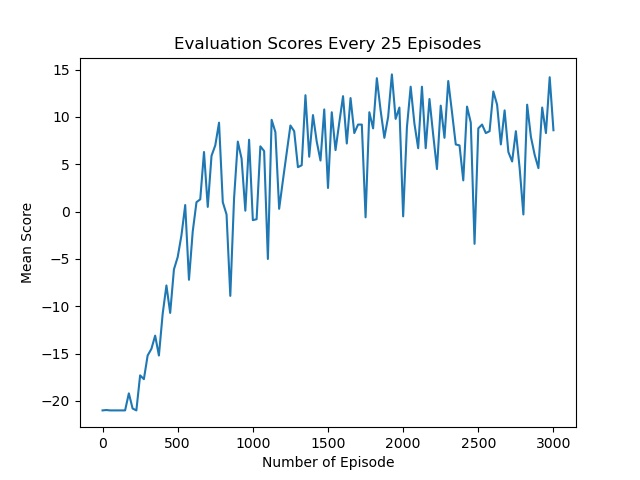
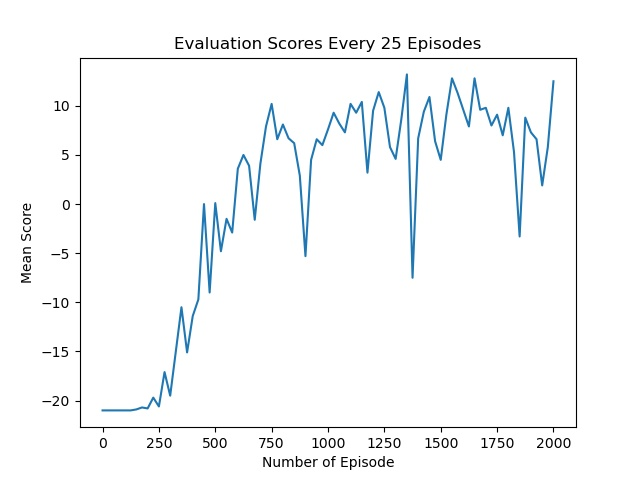
CartPole support

diff --git a/train.py b/train.py
@@ -29,16 +29,14 @@ if __name__ == '__main__':
 
     # Initialize environment and config.
     env = gym.make(args.env)
-    env = gym.wrappers.AtariPreprocessing(env, screen_size=84, grayscale_obs=True, frame_skip=1, noop_max=30)
     env_config = ENV_CONFIGS[args.env]
+    if args.env == 'Pong-v0':
+        env = gym.wrappers.AtariPreprocessing(env, screen_size=84, grayscale_obs=True, frame_skip=1, noop_max=30)
+        obs_stack_size = env_config['observation_stack_size']
 
     # Initialize deep Q-networks.
     dqn = DQN(env_config=env_config).to(device)
-    # TODO: Create and initialize target Q-network.
     target_dqn = DQN(env_config=env_config).to(device)
-
-    # Create replay memory.
-    memory = ReplayMemory(env_config['memory_size'])
 
     # Initialize optimizer used for training the DQN. We use Adam rather than RMSProp.
     optimizer = torch.optim.Adam(dqn.parameters(), lr=env_config['lr'])
@@ -52,7 +50,6 @@ if __name__ == '__main__':
         start_episode = checkpoint['episode']
         scores = checkpoint['scores']
         reward_epi = checkpoint['reward_epi']
-        #loss_epi = checkpoint['loss_epi']
         memory = checkpoint['memory']
         best_mean_return = checkpoint['best_mean_return']
         dqn.epsilon = checkpoint['epsilon']
@@ -60,59 +57,62 @@ if __name__ == '__main__':
     except:
         # Initialize a new model
         start_episode = 0
-        # Initianize scores/rewards every episode/mean loss every episode records
         scores = []
         reward_epi = []
-        #loss_epi = []
-        # Create replay memory.
         memory = ReplayMemory(env_config['memory_size'])
-        # Keep track of best evaluation mean return achieved so far.
         best_mean_return = -float("Inf")
         print("New model initialized")
-
-
-    obs_stack_size = env_config['observation_stack_size']
 
     steps = 0
     for episode in range(start_episode, env_config['n_episodes']+1):
         done = False
-
-        obs = preprocess(env.reset(), env=args.env).unsqueeze(0)
-        obs_stack = torch.cat(obs_stack_size * [obs]).unsqueeze(0).to(device)
-
         total_episode_reward = 0
         
+        obs = preprocess(env.reset(), env=args.env).unsqueeze(0)
+        if args.env == 'Pong-v0':
+            obs_stack = torch.cat(obs_stack_size * [obs]).unsqueeze(0).to(device)
+        
         while not done:
-            # TODO: Get action from DQN.
-            action = dqn.act(obs_stack).to(device)
+            # Get action from DQN and act in true environment.
+            if args.env == 'Pong-v0':
+                action = dqn.act(obs_stack).to(device)
+                next_obs, reward, done, info = env.step(action.item()+2)
+            elif args.env == 'CartPole-v0':
+                action = dqn.act(obs).to(device)
+                next_obs, reward, done, info = env.step(action.item())
             
-            # Act in the true environment.
-            next_obs, reward, done, info = env.step(action.item()+2)
-
             total_episode_reward += reward
 
             # Preprocess incoming observation.
             if not done:
                 next_obs = preprocess(next_obs, env=args.env).unsqueeze(0)
-                next_obs_stack = torch.cat((obs_stack[:, 1:, ...], next_obs.unsqueeze(1)), dim=1).to(device)
+                if args.env == 'Pong-v0':
+                    next_obs_stack = torch.cat((obs_stack[:, 1:, ...], next_obs.unsqueeze(1)), dim=1).to(device)
             else:
-                next_obs_stack = None #torch.full((1,4), np.nan).to(device)    
+                next_obs = None
+                if args.env == 'Pong-v0':
+                    next_obs_stack = None 
    
-            # TODO: Add the transition to the replay memory. Remember to convert
-            #       everything to PyTorch tensors!
+            # Add the transition to the replay memory.
             reward = torch.tensor(reward, device=device)
-            memory.push(obs_stack, action, next_obs_stack, reward)
-            obs_stack = next_obs_stack # no need to clone as next is redefined
             
-            # TODO: Run DQN.optimize() every env_config["train_frequency"] steps.
+            if args.env == 'Pong-v0':
+                memory.push(obs_stack, action, next_obs_stack, reward)
+                obs_stack = next_obs_stack # no need to clone as next is redefined
+            elif args.env == 'CartPole-v0':
+                memory.push(obs, action, next_obs, reward)
+                obs = next_obs    
+            
+            # Run DQN.optimize() every env_config["train_frequency"] steps.
             if (steps%env_config["train_frequency"] == 0):
                 optimize(dqn, target_dqn, memory, optimizer)
 
-            # TODO: Update the target network every env_config["target_update_frequency"] steps.
+            # Update the target network every env_config["target_update_frequency"] steps.
             if (steps%env_config["target_update_frequency"] == 0):
                 target_dqn.load_state_dict(dqn.state_dict())
                 
             steps += 1
+            steps = steps%env_config["target_update_frequency"]
 
             
         # Evaluate the current agent.
@@ -131,7 +131,6 @@ if __name__ == '__main__':
                 'optimizer': optimizer.state_dict(),
                 'scores': scores,
                 'reward_epi': reward_epi,
-                #'loss_epi': loss_epi,
                 'memory': memory,
                 'best_mean_return': best_mean_return,
                 'epsilon': dqn.epsilon
@@ -149,6 +148,8 @@ if __name__ == '__main__':
         
     # Close environment after training is completed.
     env.close()
+
+    # Plot evaluation returns
     plt.figure(1)
     plt.plot(range(0, env_config['n_episodes']+1, args.evaluate_freq), scores)
     plt.xlabel("Number of Episode")
@@ -156,6 +157,7 @@ if __name__ == '__main__':
     plt.title("Evaluation Scores Every 25 Episodes")
     plt.savefig(f'figures/Evaluation_reward.jpg')
 
+    # Plot return of each episode
     plt.figure(2)
     plt.plot(range(0, env_config['n_episodes']+1, 1), reward_epi)
     plt.xlabel("Number of Episode")

diff --git a/dqn.py b/dqn.py
@@ -47,39 +47,40 @@ class DQN(nn.Module):
         self.epsilon = env_config["eps_start"]
         self.anneal_length = env_config["anneal_length"]
         self.n_actions = env_config["n_actions"]
+        self.env_name = env_config['name']
 
-        self.conv1 = nn.Conv2d(4, 32, kernel_size=8, stride=4, padding=0)
-        self.conv2 = nn.Conv2d(32, 64, kernel_size=4, stride=2, padding=0)
-        self.conv3 = nn.Conv2d(64, 64, kernel_size=3, stride=1, padding=0)
-        self.fc1 = nn.Linear(3136, 512)
-        self.fc2 = nn.Linear(512, self.n_actions)
+        if self.env_name == 'Pong-v0':
+            self.conv1 = nn.Conv2d(4, 32, kernel_size=8, stride=4, padding=0)
+            self.conv2 = nn.Conv2d(32, 64, kernel_size=4, stride=2, padding=0)
+            self.conv3 = nn.Conv2d(64, 64, kernel_size=3, stride=1, padding=0)
+            self.fc1 = nn.Linear(3136, 512)
+            self.fc2 = nn.Linear(512, self.n_actions)
+        elif self.env_name == 'CartPole-v0':
+            self.fc1 = nn.Linear(4, 256)
+            self.fc2 = nn.Linear(256, self.n_actions)
 
         self.relu = nn.ReLU()
         self.flatten = nn.Flatten()
 
     def forward(self, x):
         """Runs the forward pass of the NN depending on architecture."""
-        x = self.relu(self.conv1(x))
-        x = self.relu(self.conv2(x))
-        x = self.flatten(self.relu(self.conv3(x)))
-        x = self.relu(self.fc1(x))
-        x = self.fc2(x)
-
-        return x
+        if self.env_name == 'Pong-v0':
+            x = self.relu(self.conv1(x))
+            x = self.relu(self.conv2(x))
+            x = self.flatten(self.relu(self.conv3(x)))
+            x = self.relu(self.fc1(x))
+            x = self.fc2(x)
+            return x
+        elif self.env_name == 'CartPole-v0':
+            x = self.relu(self.fc1(x))
+            x = self.fc2(x)
+            return x
 
     def act(self, observation, exploit=False):
         """Selects an action with an epsilon-greedy exploration strategy."""
-        # TODO: Implement action selection using the Deep Q-network. This function
-        #       takes an observation tensor and should return a tensor of actions.
-        #       For example, if the state dimension is 4 and the batch size is 32,
-        #       the input would be a [32, 4] tensor and the output a [32, 1] tensor.
-        # TODO: Implement epsilon-greedy exploration.
-
-        #print(observation.shape)
-        #print(observation)
-        #print("\n")
         
         batch_size = observation.shape[0]
+        
         if (exploit or random.random() > self.epsilon):
             with torch.no_grad():
                 action_values = self.forward(observation)
@@ -100,27 +101,18 @@ def optimize(dqn, target_dqn, memory, optimizer):
     if len(memory) < dqn.batch_size:
         return
 
-    # TODO: Sample a batch from the replay memory and concatenate so that there are
-    #       four tensors in total: observations, actions, next observations and rewards.
-    #       Remember to move them to GPU if it is available, e.g., by using Tensor.to(device).
-    #       Note that special care is needed for terminal transitions!
+    # Sample a batch from replay memory
     (obs, action, next_obs, reward) = memory.sample(dqn.batch_size)
-
     obs = torch.stack(obs).squeeze() # 32 x 4
     action = torch.stack(action).squeeze(1) # 32 x 1
     non_terminal_next_obs = [s for s in next_obs if s is not None]
     non_terminal_next_obs = torch.stack(non_terminal_next_obs).squeeze() # 32 or less x 4
     reward = torch.stack(reward) # 32
-
     
-    # TODO: Compute the current estimates of the Q-values for each state-action
-    #       pair (s,a). Here, torch.gather() is useful for selecting the Q-values
-    #       corresponding to the chosen actions.
+    # Compute the current estimates of the Q-values for each state-action pair
     q_values = torch.gather(dqn.forward(obs), 1, action)
     
-    
-    # TODO: Compute the Q-value targets. Only do this for non-terminal transitions!
-    # Stolen from Marks code
+    # Compute the Q-value targets for non-terminal transitions
     non_terminal_indicies = []
     for i in range(dqn.batch_size):
         if next_obs[i] != None:

diff --git a/evaluate.py b/evaluate.py
@@ -29,11 +29,15 @@ def evaluate_policy(dqn, env, env_config, args, n_episodes, render=False, verbos
     """Runs {n_episodes} episodes to evaluate current policy."""
     total_return = 0
     dqn=dqn.to(device)
-    obs_stack_size = env_config['observation_stack_size']
+
+    if args.env == 'Pong-v0':
+        obs_stack_size = env_config['observation_stack_size']
 
     for i in range(n_episodes):
         obs = preprocess(env.reset(), env=args.env).unsqueeze(0)
-        obs_stack = torch.cat(obs_stack_size * [obs]).unsqueeze(0).to(device)
+
+        if args.env  == 'Pong-v0':
+            obs_stack = torch.cat(obs_stack_size * [obs]).unsqueeze(0).to(device)
 
         done = False
         episode_return = 0
@@ -42,11 +46,15 @@ def evaluate_policy(dqn, env, env_config, args, n_episodes, render=False, verbos
             if render:
                 env.render()
 
-            action = dqn.act(obs_stack, exploit=True).item()+2
-
-            obs, reward, done, info = env.step(action)
-            obs = preprocess(obs, env=args.env).unsqueeze(0)
-            obs_stack = torch.cat((obs_stack[:, 1:, ...], obs.unsqueeze(1)), dim=1).to(device)
+            if args.env  == 'Pong-v0':
+                action = dqn.act(obs_stack, exploit=True).item()
+                obs, reward, done, info = env.step(action +2)
+                obs = preprocess(obs, env=args.env).unsqueeze(0)
+                obs_stack = torch.cat((obs_stack[:, 1:, ...], obs.unsqueeze(1)), dim=1).to(device)
+            elif args.env == 'CartPole-v0':
+                action = dqn.act(obs, exploit=True).item()
+                obs, reward, done, info = env.step(action)
+                obs = preprocess(obs, env=args.env).unsqueeze(0)
 
             episode_return += reward
         
@@ -54,7 +62,6 @@ def evaluate_policy(dqn, env, env_config, args, n_episodes, render=False, verbos
         
         if verbose:
             print(f'Finished episode {i+1} with a total return of {episode_return}')
-
     
     return total_return / n_episodes
 
@@ -64,8 +71,8 @@ if __name__ == '__main__':
     # Initialize environment and config
     env = gym.make(args.env)
     env_config = ENV_CONFIGS[args.env]
-    env = gym.wrappers.AtariPreprocessing(env, screen_size=84, grayscale_obs=True, frame_skip=1, noop_max=30)
-
+    if args.env == 'Pong-v0':
+        env = gym.wrappers.AtariPreprocessing(env, screen_size=84, grayscale_obs=True, frame_skip=1, noop_max=30)
 
     if args.save_video:
         env = gym.wrappers.Monitor(env, './video/', video_callable=lambda episode_id: True, force=True)

diff --git a/config.py b/config.py
@@ -17,6 +17,7 @@ n_actions: The number of actions can easily be accessed with env.action_space.n,
 
 # Hyperparameters for CartPole-v0
 CartPole = {
+    'name': 'CartPole-v0',
     'memory_size': 50000,
     'n_episodes': 1000,
     'batch_size': 32,
@@ -30,9 +31,10 @@ CartPole = {
     'n_actions': 2,
 }
 Pong = {
+  'name': 'Pong-v0',
   'observation_stack_size': 4,
   'memory_size': 10000,
-  'n_episodes': 1000,
+  'n_episodes': 2000,
   'batch_size': 32,
   'target_update_frequency': 1000,
   'train_frequency': 4,

diff --git a/utils.py b/utils.py
@@ -8,7 +8,9 @@ device = torch.device("cuda" if torch.cuda.is_available() else "cpu")
 
 def preprocess(obs, env):
     """Performs necessary observation preprocessing."""
-    if env in ['CartPole-v0', 'Pong-v0']:
+    if env in ['Pong-v0']:
         return torch.tensor(obs, device=device).float()/255
+    elif env in ['CartPole-v0']:
+        return torch.tensor(obs, device=device).float()
     else:
         raise ValueError('Please add necessary observation preprocessing instructions to preprocess() in utils.py.')
